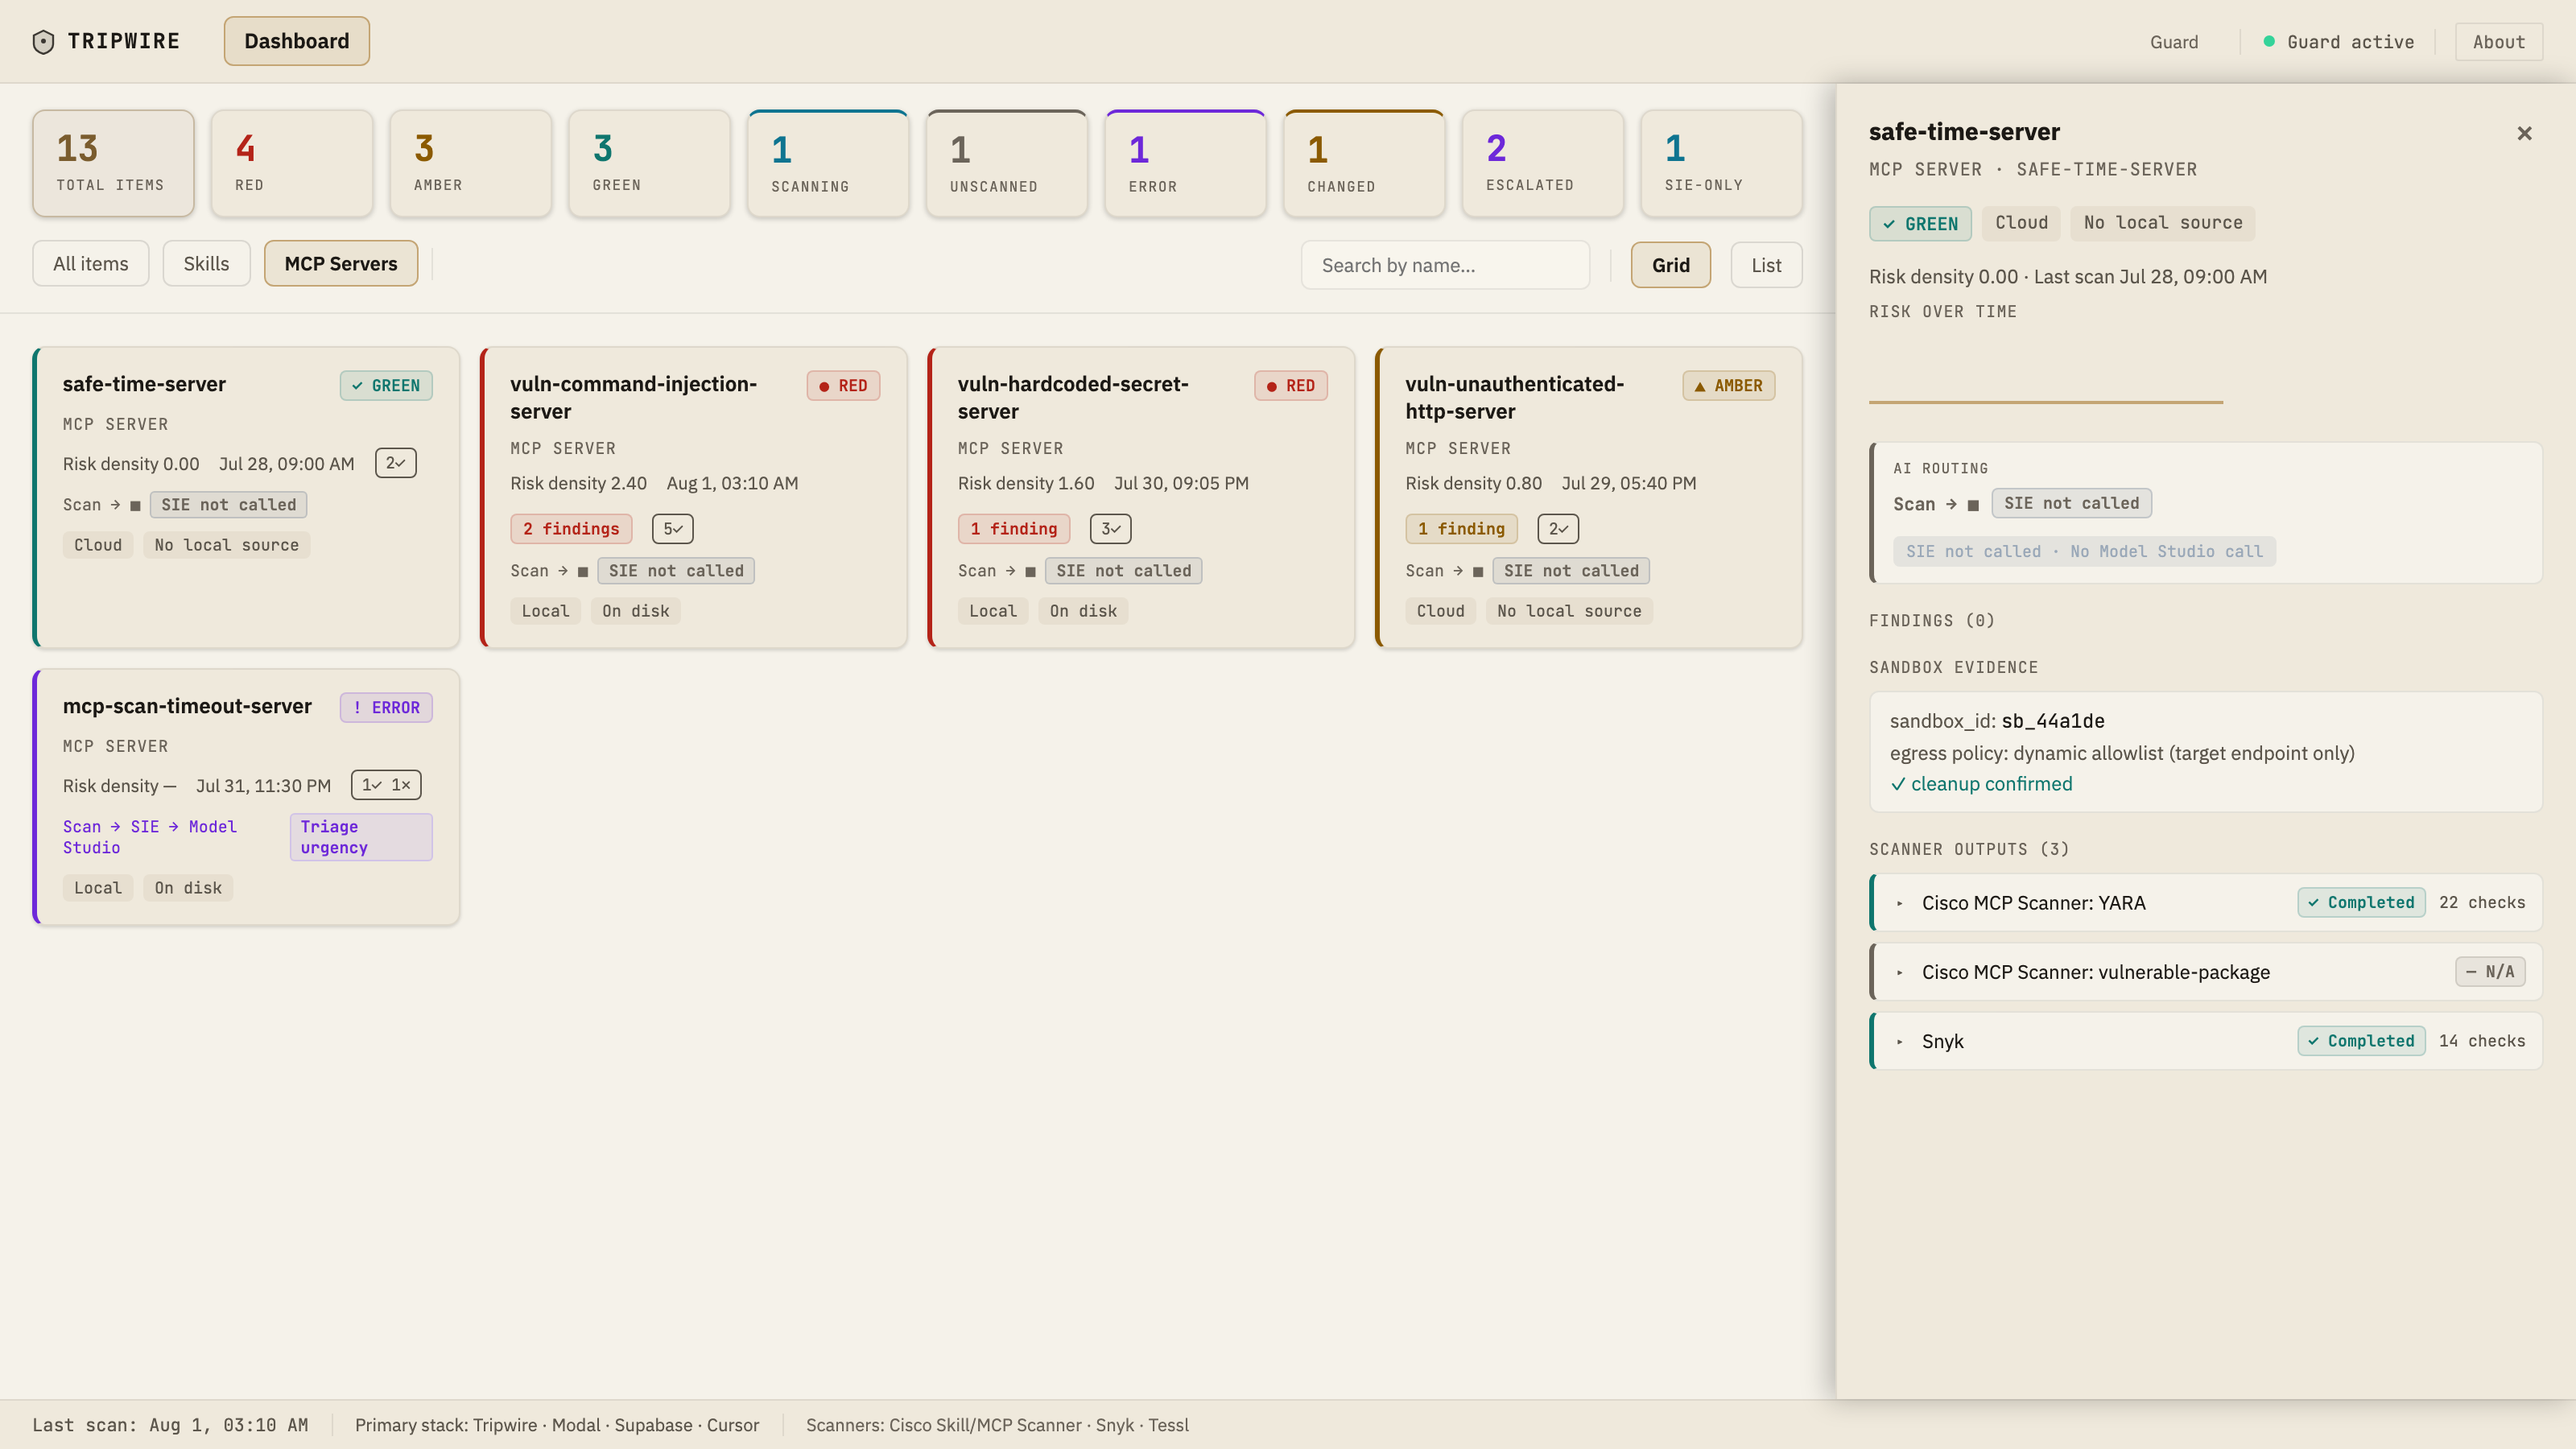
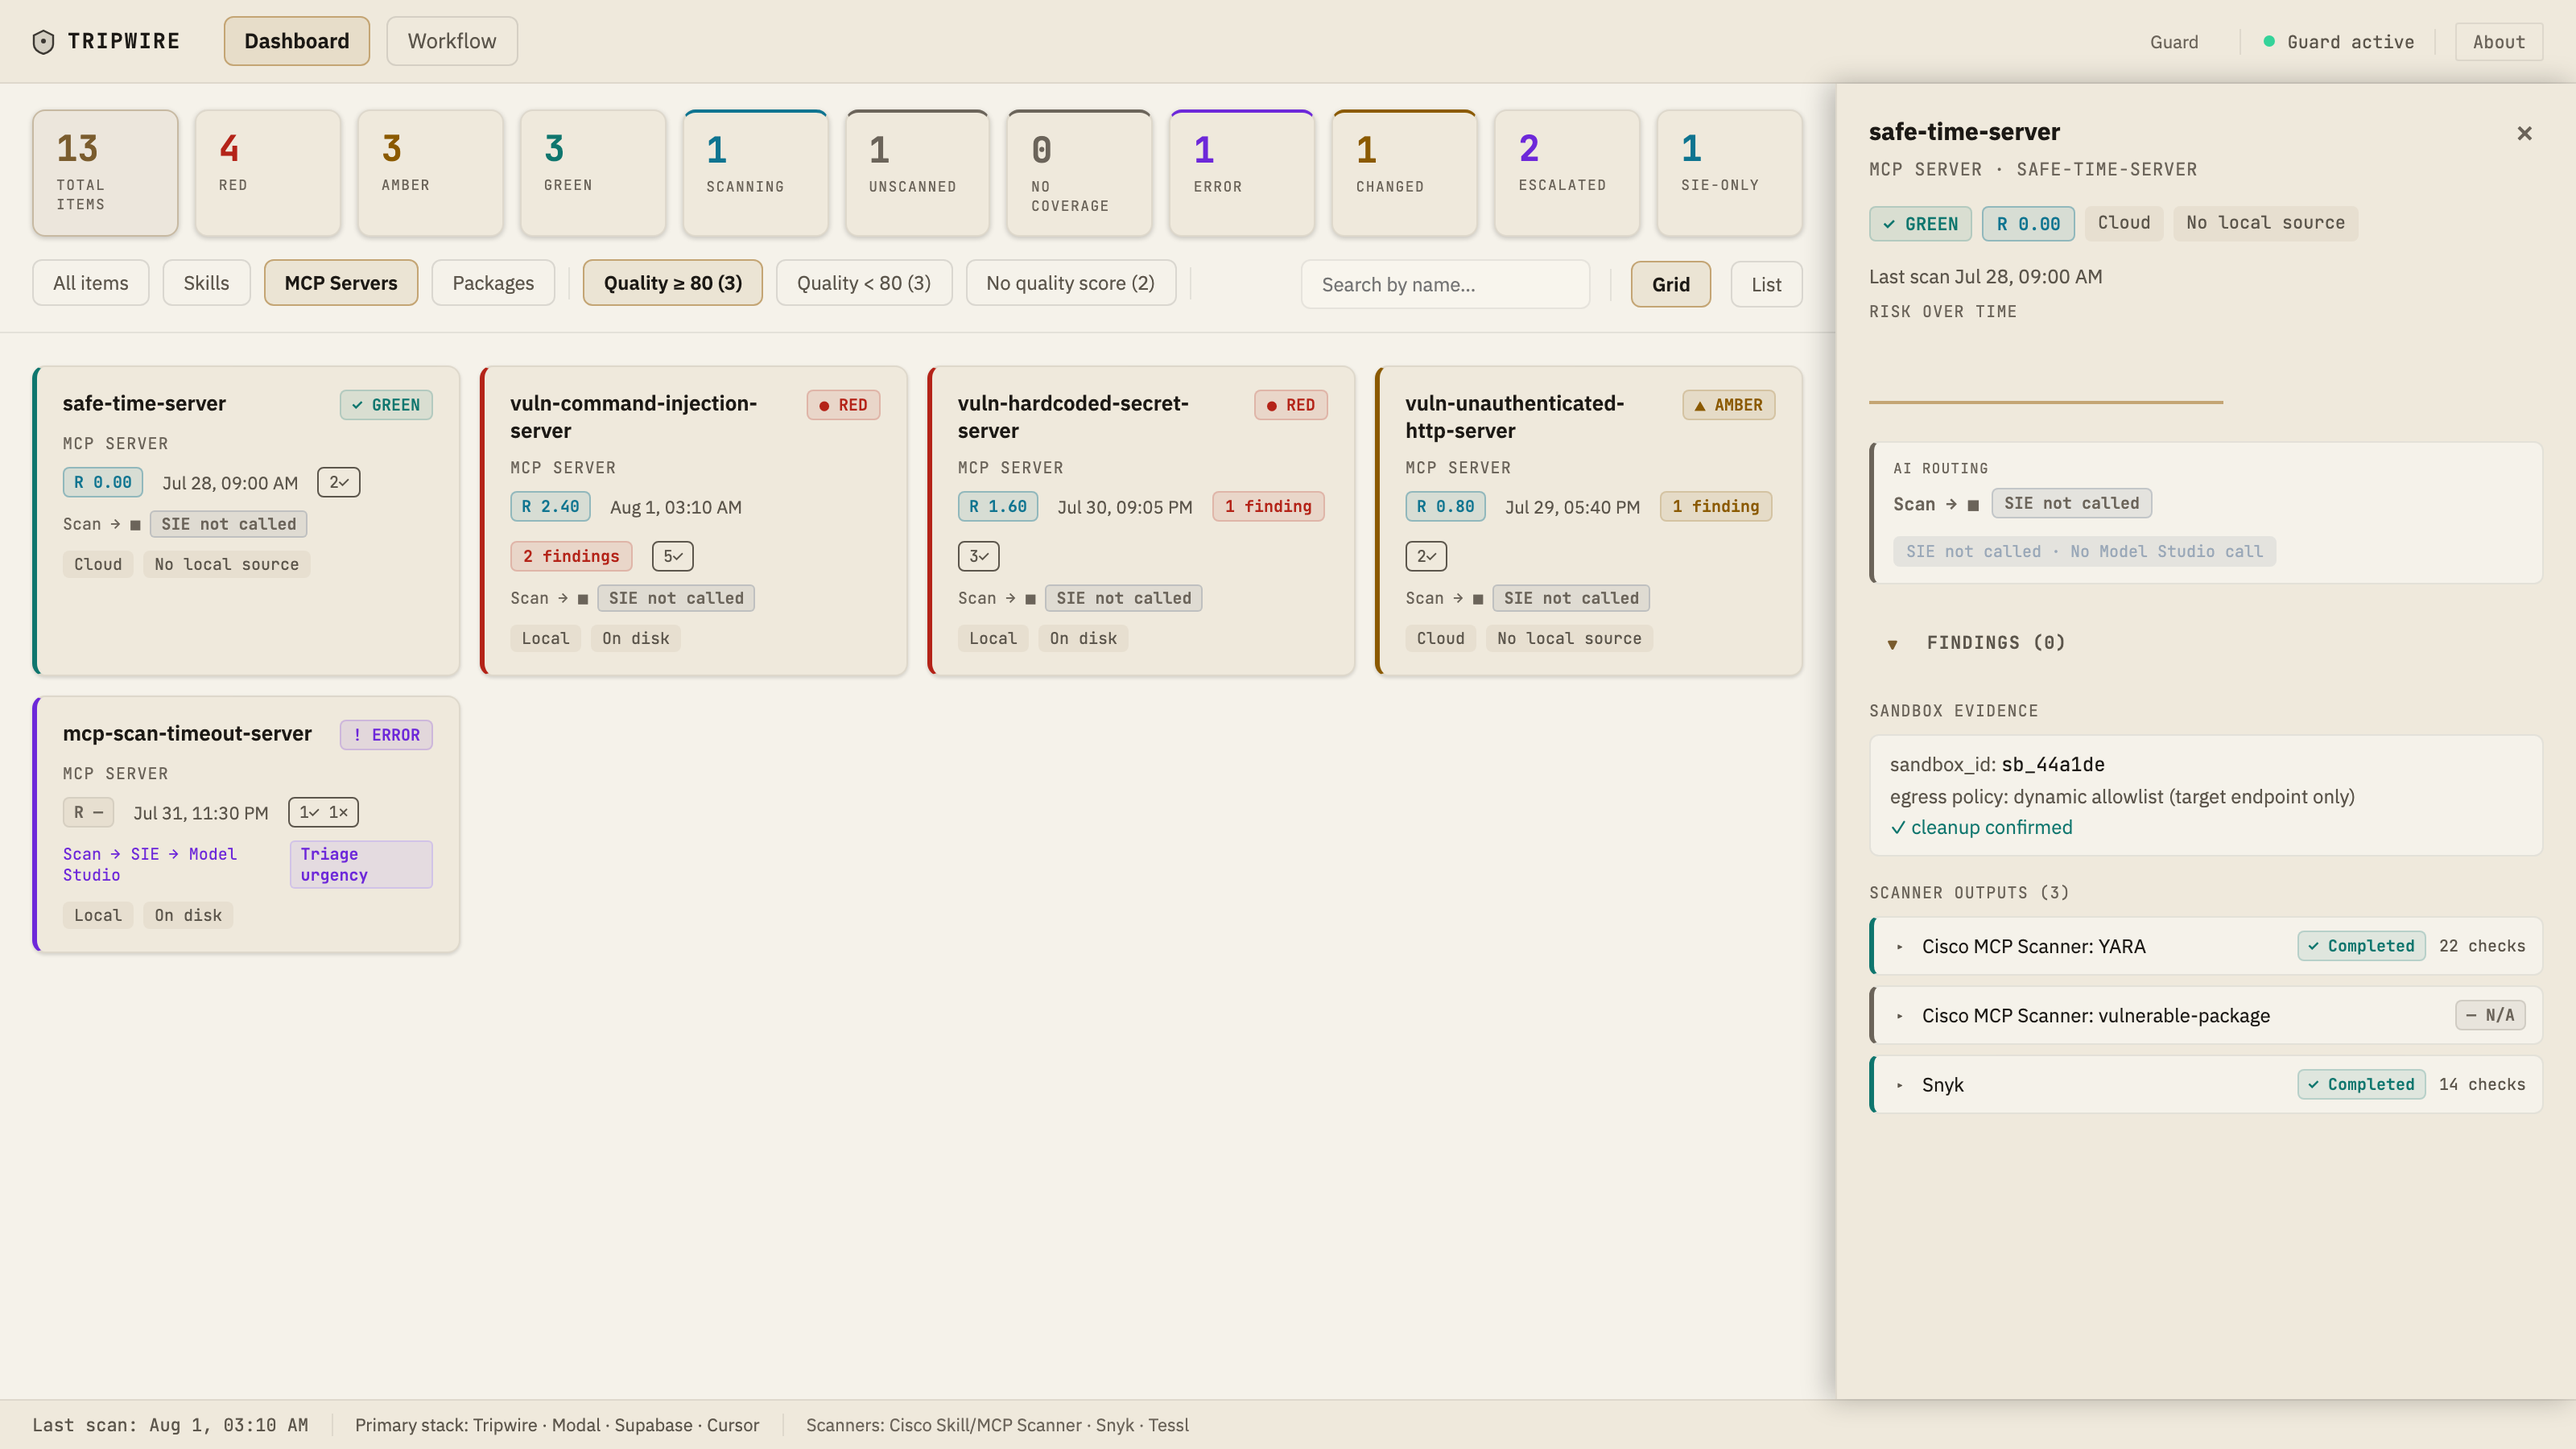
docs(screenshots): refresh gallery for 2026-09 Mock UI and CLI
Retake CLI and dashboard captures against current chrome (quality floors,
Workflow tab, R/Q badges), harden the capture script, and sync gallery
README / CHANGELOG / thumbnail date notes.

diff --git a/docs/screenshots/README.md b/docs/screenshots/README.md
@@ -11,8 +11,9 @@ captures** from the current CLI.
 Skill cards show compact **`R`** (risk density) and **`Q`** (Tessl quality)
 badges; card colour is worst-of finding status — **colour ≠ density**.
 
-> **Note (2026-08-20):** Gallery PNGs regenerated for slice-43 paper/tan visual
-> identity v2 (and slice-42 metric badges). Re-run the commands below after further
+> **Note (2026-09-20):** Gallery PNGs regenerated from Mock demo data on current
+> `main` chrome (Workflow tab, quality floors, R/Q badges, pathway strips). CLI
+> shots include `judge` / `setup-agent-hooks` / `status`. Re-run after further
 > chrome changes.
 
 Regenerate frontend shots with:
@@ -42,7 +43,9 @@ Help output (including `route`) and discovery / live scan feedback.
 ## 2. Dashboard
 
 Heatmap grid, severity filters, tiered-router filters, type views, and list
-layout (Mock demo). Card colour is worst-of actionable finding severity; chips
+layout (Mock demo). Default skill view uses **Quality ≥ 80**; Red/Amber skill
+drill-downs and severity filters that need low-Q fixtures switch to
+**Quality < 80**. Card colour is worst-of actionable finding severity; chips
 show finding counts. Compare with the live [hosted dashboard](https://neomatrix369.github.io/demos/tripwire-dashboard/) or the [YouTube walkthrough](https://youtu.be/omGOw9ruN3Y).
 
 ### Overview grid

diff --git a/README.md b/README.md
@@ -189,7 +189,7 @@ remembered in `sessionStorage`.
 
 > **Visual identity v2:** cream paper, tan primary CTA, and AA-readable ink tokens
 > (Fraunces display headings) — shipped via [PR #96](https://github.com/neomatrix369/tripwire/pull/96).
-> Screenshots in [docs/screenshots/](docs/screenshots/README.md) regenerated 2026-08-20.
+> Screenshots in [docs/screenshots/](docs/screenshots/README.md) regenerated 2026-09-20.
 
 After installing the CLI, you can also validate target discovery locally without
 accounts or a scan:

diff --git a/CHANGELOG.md b/CHANGELOG.md
@@ -7,6 +7,11 @@ and this project adheres to [Semantic Versioning](https://semver.org/spec/v2.0.0
 
 ## [Unreleased]
 
+### Docs
+- Screenshot gallery regenerated 2026-09-20: Mock UI (Workflow tab, quality
+  floors, R/Q badges, pathway strips) + live CLI (`judge` / hooks / `status`);
+  capture script switches Quality < 80 for Red/Amber skill fixtures
+
 ### Fixed
 - Workflow L→R smoke FAIL/PARTIAL (slice 77, on
   `slice/77-workflow-smoke-fix-target-flow`): Run “Review findings” CTA treats
